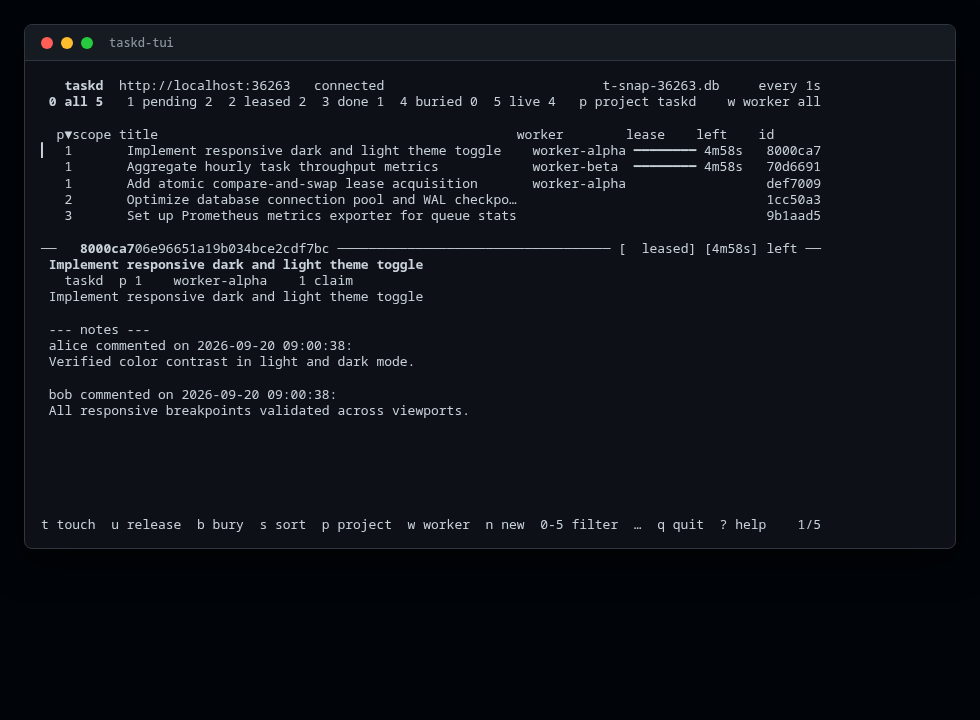
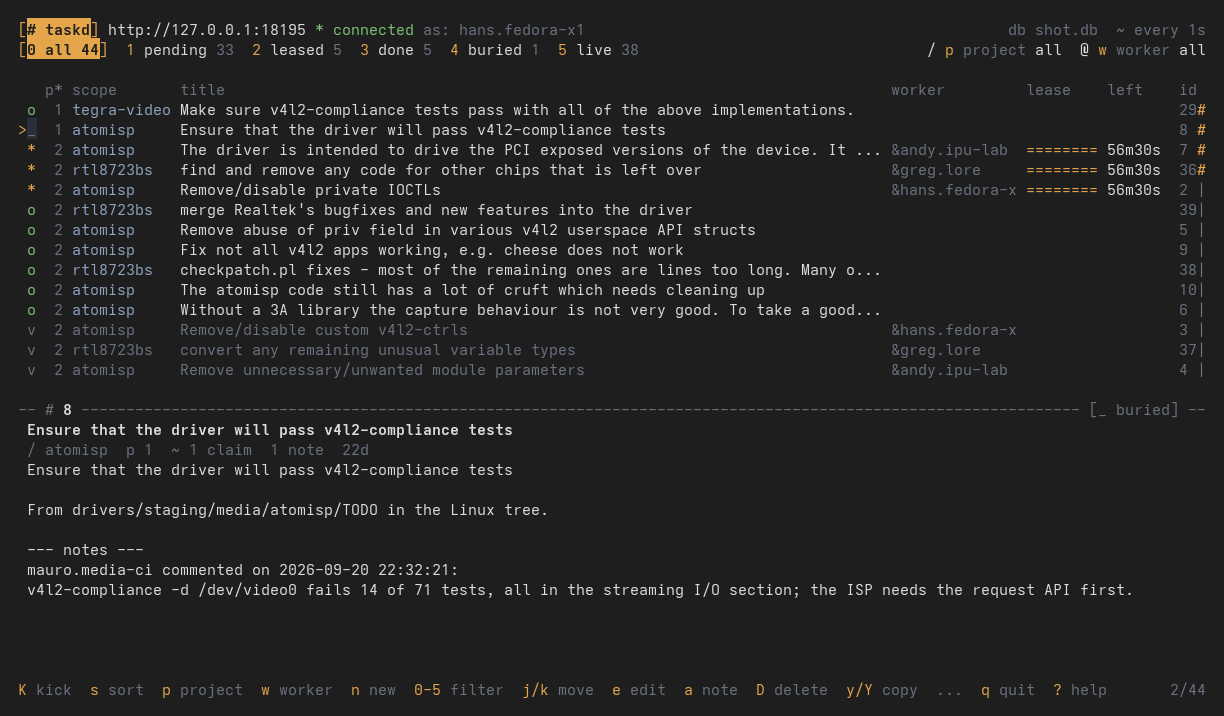
README: current screenshots, side by side
* Both images showed the interface from before the ledger rewrite. They
  are retaken from a daemon seeded with the TODO files under
  drivers/staging in the Linux tree, one project per driver, with tasks
  claimed, done, waiting on another, and one stuck with a note.
* The web ledger and the terminal UI sit in a two-cell table so they
  take half the width each instead of the whole page.

diff --git a/README.md b/README.md
@@ -6,9 +6,12 @@
   <strong><a href="https://igoralexey.com/taskd">igoralexey.com/taskd</a></strong>
 </p>
 
-![taskd Web UI dashboard showing task queue, details pane, and submit form](docs/webui.png)
-
-![taskd Terminal UI showing task queue, status filters, and lease details](docs/tui.png)
+<table>
+  <tr>
+    <td width="50%"><img src="docs/webui.png" alt="taskd web UI: a project ledger with stuck, claimed, queued and done tasks"></td>
+    <td width="50%"><img src="docs/tui.png" alt="taskd terminal UI: the queue table with a task and its notes below"></td>
+  </tr>
+</table>
 
 taskd is a task queue daemon with atomic leases, dependency tracking, and
 embedded web and terminal interfaces.
